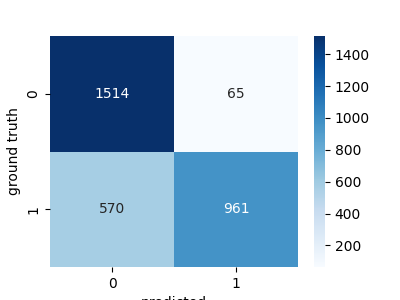
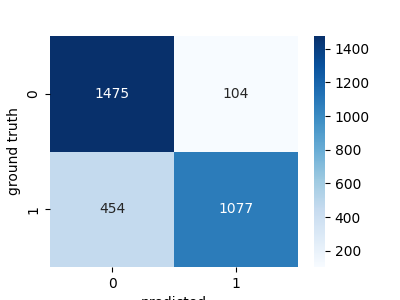
initial training done

diff --git a/Scripts/train_crossencoder.py b/Scripts/train_crossencoder.py
@@ -13,6 +13,7 @@ import os
 import random
 import sys
 from pathlib import Path
+import time
 import matplotlib.pyplot as plt
 import torch
 import pandas as pd
@@ -43,12 +44,12 @@ except Exception as e:
 from mind2Web_Loader import Mind2WebDataset
 
 # ------------------ USER CONFIGURATION ------------------
-PARQUET_PATH = r"D:\Environments\Datasets\multimodal-mind2web\data\train-00000-of-00027-4d11798d7219186d.parquet"
-MODEL_OUTPUT_DIR = r"D:\Environments\Models\cross-encoder-seeact"
-PLOTS_DIR = r"D:\Mtech\Sem 3\Codes\AutoWeb\Scripts\training_plots"
+PARQUET_PATH = r"D:\\Environments\\Datasets\\multimodal-mind2web\\data\\train-00000-of-00027-4d11798d7219186d.parquet"
+MODEL_OUTPUT_DIR = r"D:\\Environments\\Models\\cross-encoder-seeact"
+PLOTS_DIR = r"D:\\Mtech\\Sem 3\\Codes\\AutoWeb\\Scripts\\training_plots"
 TRAIN_FRACTION = 0.8            # train/dev split
 BATCH_SIZE = 16
-EPOCHS = 3
+EPOCHS = 30
 LR = 2e-5
 SEED = 42
 # --------------------------------------------------------
@@ -132,28 +133,84 @@ def main():
     def callback(score, epoch, steps):
         eval_scores.append(score)
 
-    model.fit(
-        train_dataloader,
-        evaluator=dev_evaluator,  # None disables evaluation during training
-        epochs=EPOCHS,
-        evaluation_steps=0,  # no periodic eval
-        optimizer_params={"lr": LR},
-        output_path=MODEL_OUTPUT_DIR,
-        save_best_model=True,
-        callback=callback,
-        show_progress_bar=True,
-    )
+    # instead of running all epochs at once, iterate so we can evaluate after
+    # each epoch and record accuracy/error for train and dev sets.
+    history = {
+        "epoch": [],
+        "train_acc": [],
+        "train_err": [],
+        "dev_acc": [],
+        "dev_err": [],
+    }
 
-    # if no evaluation hooks ran the directory may be empty; save final model explicitly
+    def compute_accuracy(model, examples):
+        correct = 0
+        for ex in examples:
+            score = model.predict([ex.texts])[0]
+            pred = 1.0 if score >= 0.5 else 0.0
+            if pred == ex.label:
+                correct += 1
+        return correct / len(examples) if examples else 0.0
+
+    for epoch in range(EPOCHS):
+        start_time = time.time()
+        print(f"\n=== Starting epoch {epoch+1}/{EPOCHS} ===")
+        model.fit(
+            train_dataloader,
+            evaluator=dev_evaluator,
+            epochs=1,
+            evaluation_steps=0,
+            optimizer_params={"lr": LR},
+            output_path=MODEL_OUTPUT_DIR,
+            save_best_model=True,
+            callback=callback,
+            show_progress_bar=True,
+        )
+
+        # evaluate accuracy on both sets
+        train_acc = compute_accuracy(model, train_ex)
+        dev_acc = compute_accuracy(model, dev_ex)
+        history["epoch"].append(epoch + 1)
+        history["train_acc"].append(train_acc)
+        history["train_err"].append(1 - train_acc)
+        history["dev_acc"].append(dev_acc)
+        history["dev_err"].append(1 - dev_acc)
+        print(f"Epoch {epoch+1}: train_acc={train_acc:.4f}, dev_acc={dev_acc:.4f}")
+        print(f"Epoch {epoch+1} completed in {time.time() - start_time:.2f} seconds")
+
+    # ensure final model saved
     print("Saving final model to", MODEL_OUTPUT_DIR)
     model.save(MODEL_OUTPUT_DIR)
 
-    # plot evaluator scores (if any were collected)
-    if eval_scores:
-        plot_scores(eval_scores, os.path.join(PLOTS_DIR, "eval_scores.png"))
+    # plot accuracy/error graphs
+    def plot_history(hist: dict, out_prefix: str):
+        epochs = hist["epoch"]
+        plt.figure()
+        plt.plot(epochs, hist["train_acc"], label="train acc", marker="o")
+        plt.plot(epochs, hist["dev_acc"], label="dev acc", marker="o")
+        plt.title("Accuracy per epoch")
+        plt.xlabel("epoch")
+        plt.ylabel("accuracy")
+        plt.legend()
+        plt.grid(True)
+        plt.savefig(out_prefix + "_acc.png")
+        plt.close()
 
-    # reload trained model (same path) and run confusion on dev
-    trained = model  # we can just use the in-memory model
+        plt.figure()
+        plt.plot(epochs, hist["train_err"], label="train err", marker="o")
+        plt.plot(epochs, hist["dev_err"], label="dev err", marker="o")
+        plt.title("Error per epoch")
+        plt.xlabel("epoch")
+        plt.ylabel("error")
+        plt.legend()
+        plt.grid(True)
+        plt.savefig(out_prefix + "_err.png")
+        plt.close()
+
+    plot_history(history, os.path.join(PLOTS_DIR, "epoch_history"))
+
+    # confusion matrix using the final model
+    trained = model
     trained.eval()
     gt_labels = []
     pred_labels = []
